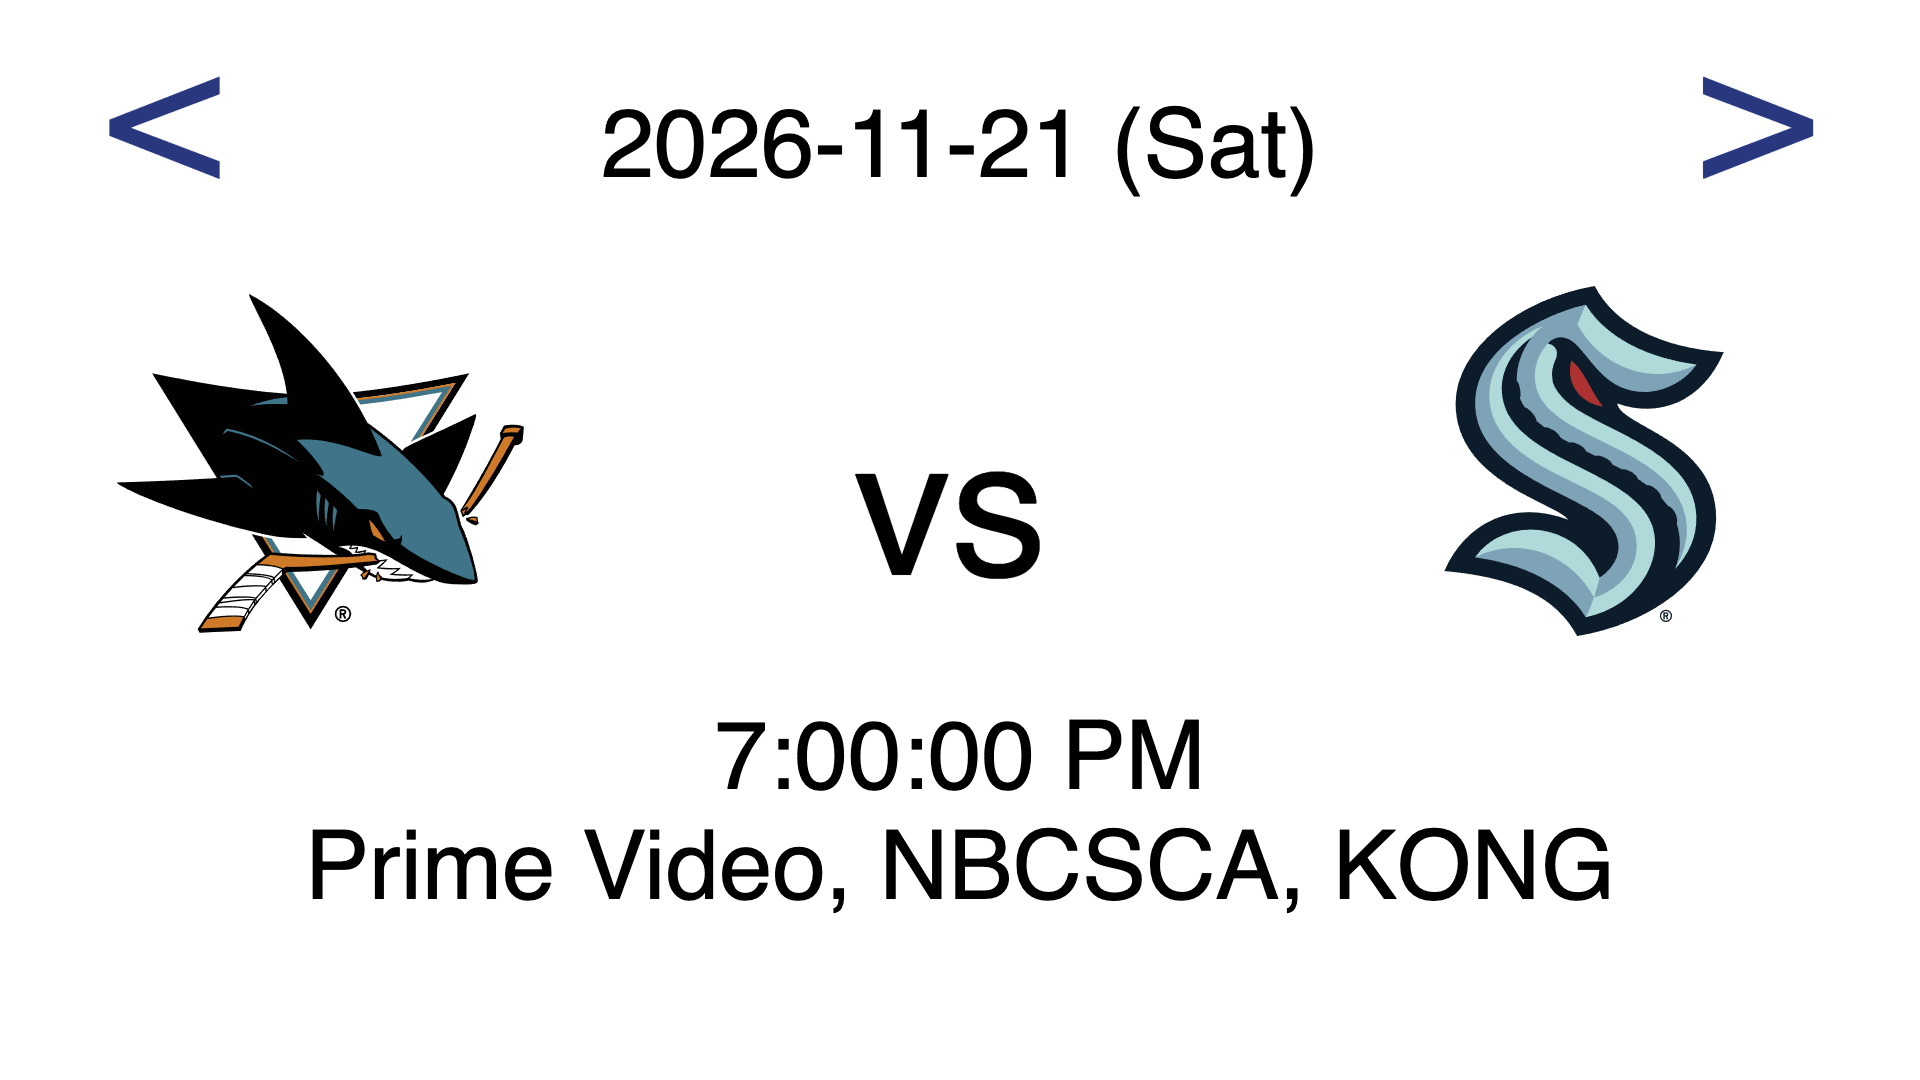
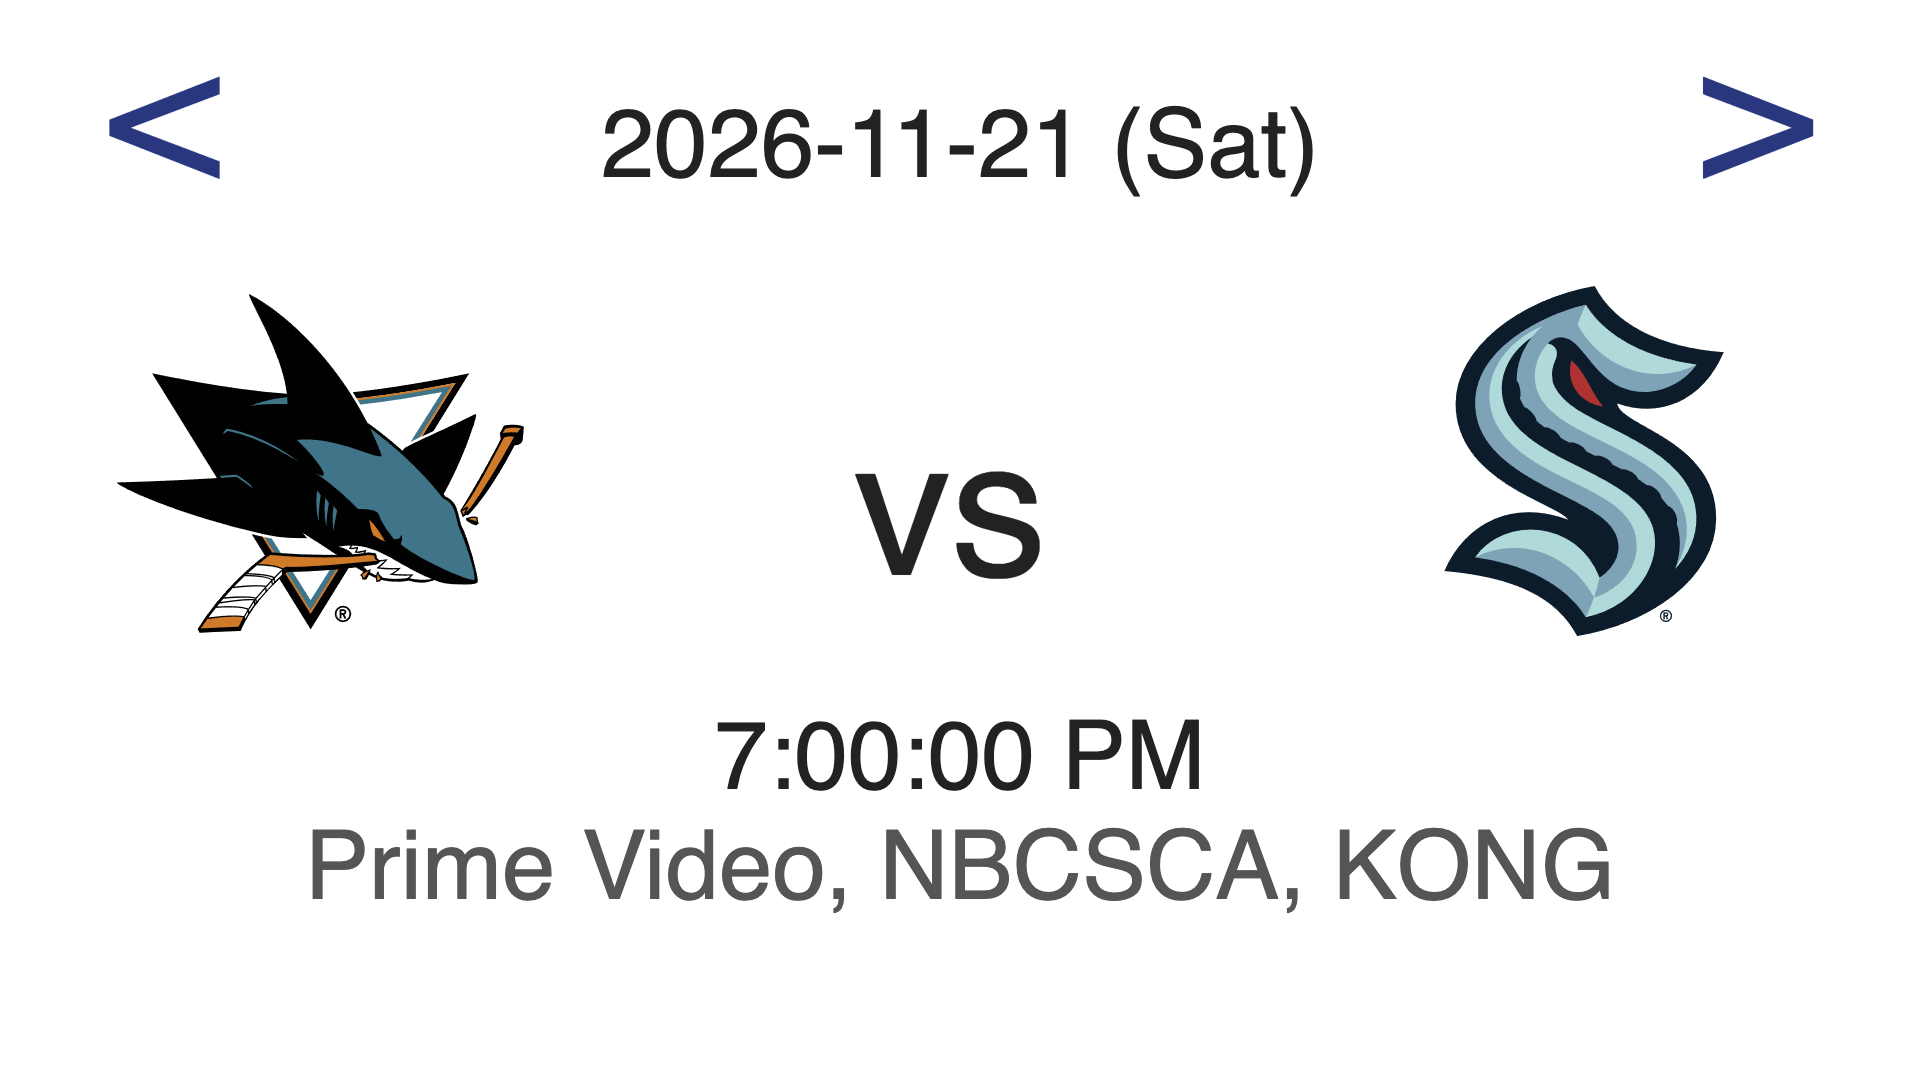
Support dark mode, add dark screenshot

diff --git a/www/index.css b/www/index.css
@@ -1,7 +1,28 @@
+:root {
+  color-scheme: light dark;
+  --background: #fff;
+  --text: #222;
+  --muted: #555;
+  --link: #213483;
+  --link-hover: #4763d1;
+}
+
+@media (prefers-color-scheme: dark) {
+  :root {
+    --background: #121418;
+    --text: #e8e8e8;
+    --muted: #a8adb5;
+    --link: #8ea6ff;
+    --link-hover: #c0ceff;
+  }
+}
+
 html {
-  font-family: "Oswald", Helvetica, sans-serif;
-  font-color: #333;
+  font-family: Helvetica, Arial, sans-serif;
+  font-size: 5vw;
   text-rendering: optimizelegibility;
+  background-color: var(--background);
+  color: var(--text);
 }
 
 body {
@@ -10,203 +31,13 @@ body {
   overflow: hidden;
 }
 
-#body-wrapper {
-}
-
-#background-layer {
-  background-image: url('mac-background.jpg');
-  background-repeat: no-repeat;
-  background-position: top center;
-  background-color: #fff;
-}
-
-#header-wrapper, #hi-wrapper, #animation-wrapper {
-  width: 800px;
-  margin: 200px auto 0 auto;
-  text-align: center;
-}
-
-#animation-wrapper {
-  margin-top: 2000px !important;
-  margin-bottom: 100px;
-  height: 400px;
-  width: 100%;
-  text-align: center;
-  background-color: rgba(0,0,0,0.1);
-  padding: 40px;
-}
-
-#animation {
-  display: inline-block;
-  height: 100%;
-
-  /* this stuff is too intense for most browsers
-  filter: blur(2px) sepia(80%);
-  -webkit-filter: blur(2px) sepia(80%);
-  -moz-filter: blur(2px) sepia(80%);
-  -o-filter: blur(2px) sepia(80%);
-  -ms-filter: blur(2px) sepia(80%);
-  */
-}
-
-#hi-wrapper {
-  margin-top: 3500px !important;
-  margin-bottom: 100px;
-  padding: 0 20px 20px 20px;
-  height: 170px;
-  width: 100%;
-  background-color: rgba(0,0,0,0.1);
-}
-
-#content-wrapper {
-  width: 640px;
-  height: 1000px;
-  margin: 400px auto 0 auto;
-  padding: 0 40px 40px 40px;
-}
-
-#links-before {
-  width: 100%;
-  height: 30px;
-  margin: 0;
-  padding: 0;
-
-  background-color: #f83;
-  opacity: 0.8;
-  filter: alpha(opacity=80); /* For IE8 and earlier */
-
-  border-top-left-radius: 30px;
-  border-top-right-radius: 30px;
-  border-top: solid #444 6px;
-  border-left: solid #444 20px;
-  border-right: solid #444 20px;
-}
-
-#links {
-  margin-top: -16px;
-  width: 100%;
-  height: 900px;
-
-  background-color: #f83;
-  opacity: 0.8;
-  filter: alpha(opacity=80); /* For IE8 and earlier */
-
-  background: linear-gradient(#f83, #fff) !important;
-
-  border-width: 0 20px;
-  border-color: #444;
-  border-style: solid;
-  border-image: linear-gradient(to bottom, #444, rgba(68,68,68,0)) 1 100% !important;
-}
-
-#header {
-  margin: 0 0 0 0;
-  padding: 0;
-  font-size: 32px;
-  font-weight: normal;
-  letter-spacing: 18px;
-  text-transform: uppercase;
-  text-shadow: 0 0 48px #fffd00;
-}
-
-#yep {
-  text-align: right;
-  font-size: 16px;
-  font-weight: normal;
-  letter-spacing: 2px;
-}
-
-#hi {
-  text-align: center;
-  font-size: 24px;
-  font-weight: normal;
-  letter-spacing: 2px;
-}
-
-img, input {
-  vertical-align: middle;
-}
-
-img.letter {
-  width: 82px;
-  height: 82px;
-  -webkit-filter: drop-shadow(0 0 48px rgba(255,215,0,0.9));
-}
-
-#inspiration {
-  position: absolute;
-  font-size: 60px;
-  z-index: 1;
-  width: 97%;
-  letter-spacing: 4px;
-  top: 1000px;
-  color: brown;
-  opacity: 0.7;
-}
-
-ul {
-}
-
-li {
-  line-height: 64px;
-  font-size: 20px;
-  list-style-type: none;
-}
-
-.block {
-  display: inline-block;
-  border-bottom: #222 solid 1px;
-  white-space: nowrap;
-}
-.git {
-  display: inline-block;
-  background-image: url('git.png');
-  background-size: 20px 20px;
-  width: 20px; 
-  height: 20px;
-  content: "";
-  margin-left: 4px;
-}
-
-h3 {
-  margin: 20px 0 0 0;
-  font-weight: bold;
-  font-size: 32px;
-}
-
-/*
-.block {
-  display: inline-block;
-  border: solid red 1px;
-  width: 100%;
-  padding-left: 20px;
-  margin-top: 10px;
-  background-color: #f83;
-}
-*/
-
-a:link {
+a:link, a:visited {
   text-decoration: none;
-  color: #213483;
-}
-
-a:visited {
-  text-decoration: none;
-  color: #213483;
+  color: var(--link);
 }
 
 a:hover {
-  text-decoration: none;
-  color: #4763d1;
-}
-
-a:active {
-  text-decoration: none;
-}
-
-
-html {
-  font-size: 5vw;
+  color: var(--link-hover);
 }
 
 .next-link, .back-link {
@@ -227,10 +58,12 @@ html {
   width: 100vw;
   text-align: center;
 }
+
 .channels {
   display: block;
   width: 100vw;
   text-align: center;
+  color: var(--muted);
 }
 
 .no-games {
@@ -238,15 +71,19 @@ html {
   width: 100vw;
   margin-top: 16vw;
   text-align: center;
+  color: var(--muted);
 }
 
 .logo {
   display: inline-block;
   width: 33vw;
   height: 25vw;
-  padding: 0;
-  margin: 0;
   vertical-align: middle;
+}
+
+.logo img {
+  width: 100%;
+  height: 100%;
   object-fit: contain;
 }
 

diff --git a/www/index.js b/www/index.js
@@ -53,9 +53,9 @@ $(function() {
           var team1 = (item.isHome ? item.home : item.away);
           var team2 = (item.isHome ? item.away : item.home);
           
-          var logo1 = '<img class="logo" src="' + escapeHtml(team1.logo) + '" alt="' + escapeHtml(team1.name) + '" title="' + escapeHtml(team1.name) + '">';
+          var logo1 = logoHtml(team1);
           var vsOrAt = '<div class="vs-or-at">' + (item.isHome ? 'vs' : 'at') + '</div>';
-          var logo2 = '<img class="logo" src="' + escapeHtml(team2.logo) + '" alt="' + escapeHtml(team2.name) + '" title="' + escapeHtml(team2.name) + '">';
+          var logo2 = logoHtml(team2);
 
 
           var time = '<div class="time">' + new Date(Date.parse(item.gameDate)).toLocaleTimeString() + '</div>';
@@ -73,6 +73,13 @@ $(function() {
     });
   };
   
+  function logoHtml(team) {
+    var darkSource = team.darkLogo ? '<source srcset="' + escapeHtml(team.darkLogo) + '" media="(prefers-color-scheme: dark)">' : '';
+    return '<picture class="logo">' + darkSource +
+      '<img src="' + escapeHtml(team.logo) + '" alt="' + escapeHtml(team.name) + '" title="' + escapeHtml(team.name) + '">' +
+      '</picture>';
+  }
+
   function escapeHtml(unsafe) {
     return (unsafe + '')
          .replace(/&/g, "&amp;")

diff --git a/www/index.html b/www/index.html
@@ -2,6 +2,8 @@
 <html lang="en-US">
 <head>
 <meta charset="utf-8">
+<meta name="color-scheme" content="light dark">
+<meta name="viewport" content="width=device-width, initial-scale=1">
 
 <!-- open graph -->
 <meta property="og:url" content="https://andrewmacheret.com/projects/nhl" />

diff --git a/README.md b/README.md
@@ -2,11 +2,14 @@
 
 [![License](https://img.shields.io/badge/license-MIT-lightgray.svg)](https://github.com/andrewmacheret/nhl-client/blob/master/LICENSE.md)
 
-Shows what NHL games are on today for your favorite team, with the TV channels they're on.
+Shows what NHL games are on today for your favorite team, with the TV channels they're on. Follows the system's light or dark mode.
 
 Live at [andrewmacheret.com/projects/nhl](https://andrewmacheret.com/projects/nhl/).
 
-![Screenshot](www/screenshot.png)
+<picture>
+  <source media="(prefers-color-scheme: dark)" srcset="www/screenshot-dark.png">
+  <img alt="Screenshot of NHL Today showing a Sharks vs Kraken game" src="www/screenshot.png">
+</picture>
 
 ## Usage
 
@@ -27,4 +30,4 @@ That API only allows requests from `https://andrewmacheret.com` (CORS), so openi
 
 Pushes to `master` copy `www/` to `s3://andrewmacheret.com/projects/nhl` and clear the CloudFront cache through GitHub Actions (see `.github/workflows/deploy.yml`). The workflow signs in to AWS with GitHub OIDC using the IAM role in the `AWS_ROLE_ARN` repo variable.
 
-`www/screenshot.png` is used for this README and for link previews (`og:image`).
+`www/screenshot.png` is used for this README and for link previews (`og:image`). `www/screenshot-dark.png` is the README screenshot for GitHub's dark theme.
